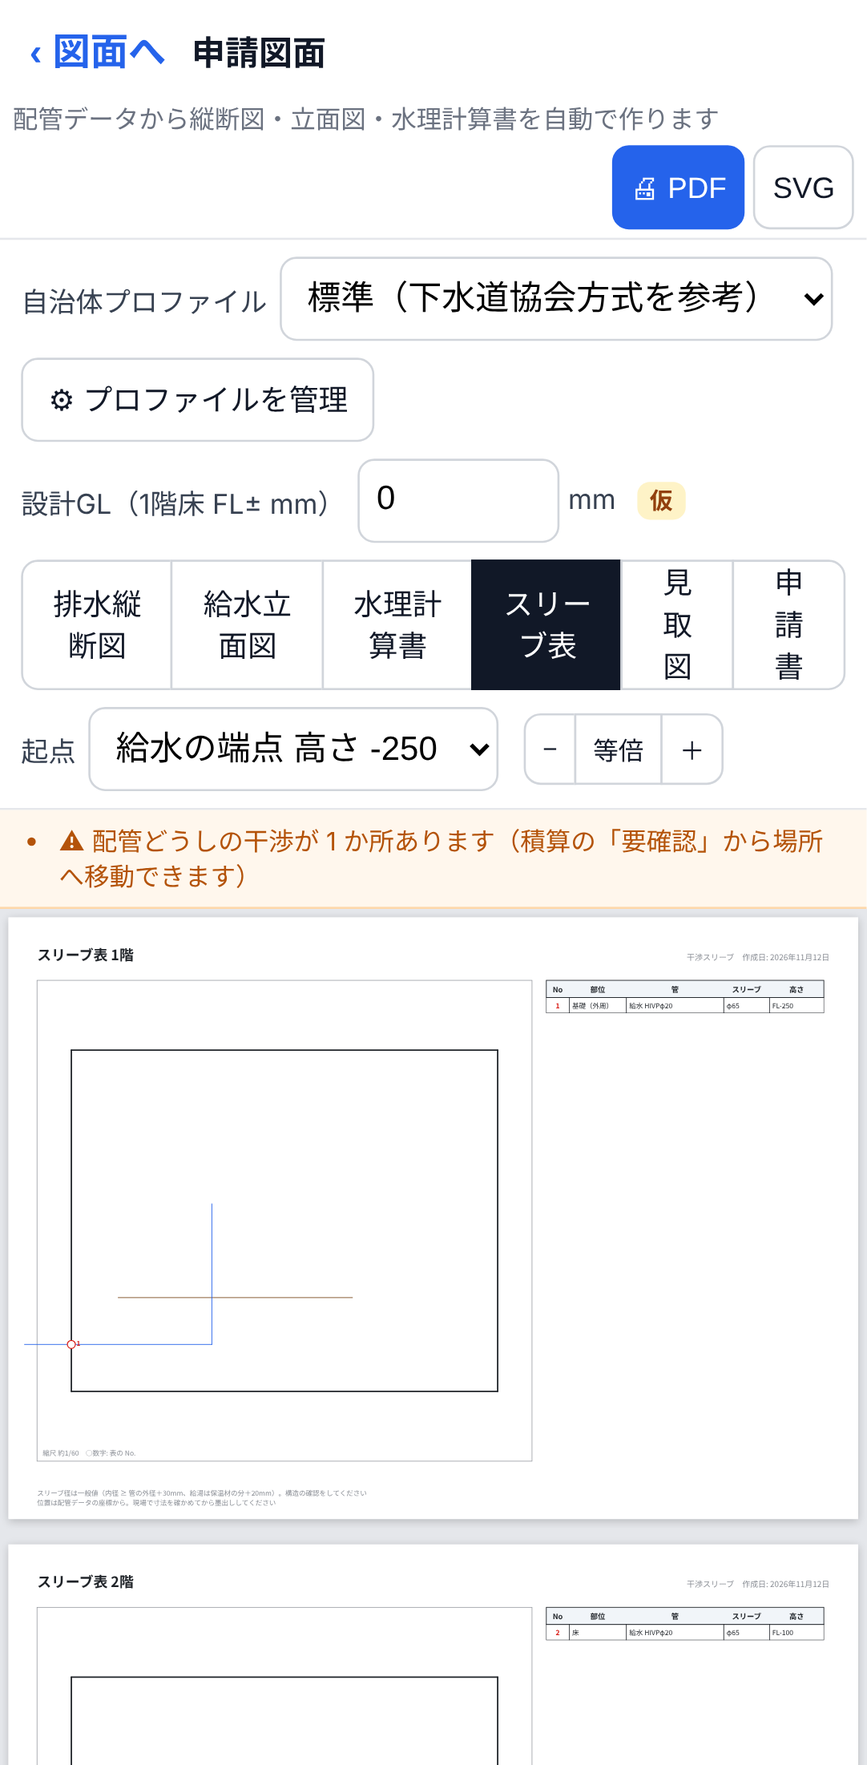
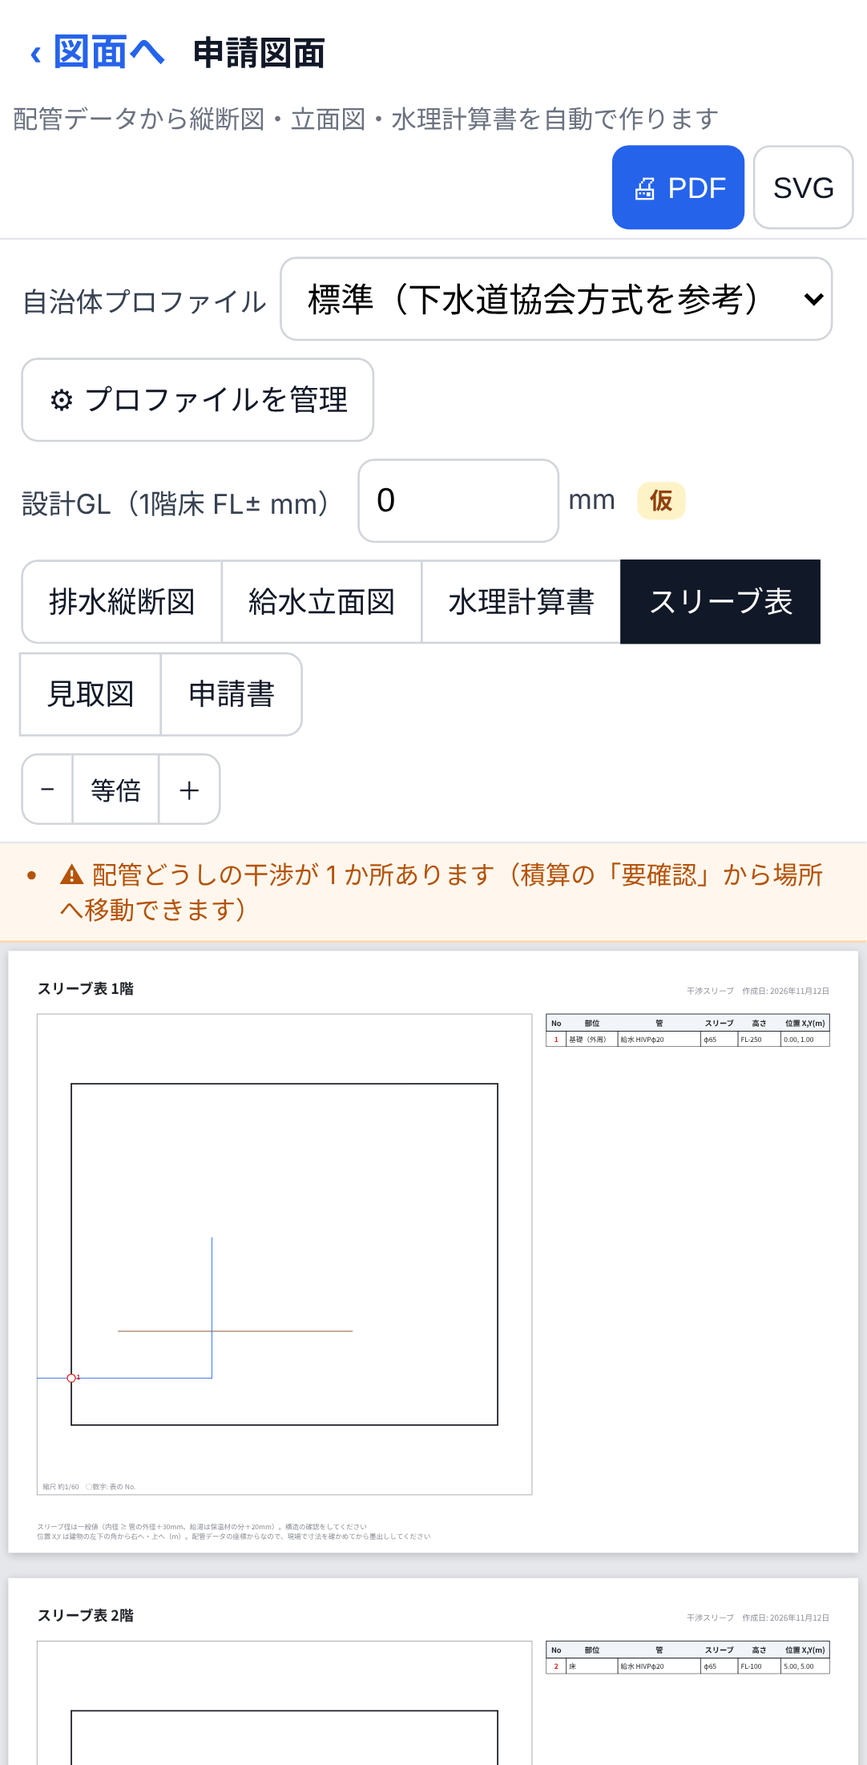
fix(干渉・スリーブ表): レビュー指摘の修正（同じ干渉を区間ごとに出さない・立て管の貫通は干渉・継ぎ目や角や部材の中の区切りで二重に数えない・壁の線で終わる配管は貫通ではない・縮尺の下限と建物の範囲・枠の外へ描かない・位置 X,Y の列・スリーブ径の決め方を設計書と一致）
Claude-Session: https://claude.ai/code/session_0147UKVvh1jvwGpYxGadQEHZ

diff --git a/src/export/sleeveSheet.ts b/src/export/sleeveSheet.ts
@@ -14,7 +14,7 @@ import { fitText, GRAY, INK, RED, type Sheet } from './sheet';
 export const SLEEVE_ROWS_PER_PAGE = 30;
 const W = 297, H = 210, M = 10;
 const PLAN = { x: M, y: 22, w: 173, h: 168 };
-const COLS = [{ k: 'No', w: 8 }, { k: '部位', w: 20 }, { k: '管', w: 34 }, { k: 'スリーブ', w: 16 }, { k: '高さ', w: 19 }];
+const COLS = [{ k: 'No', w: 7 }, { k: '部位', w: 18 }, { k: '管', w: 29 }, { k: 'スリーブ', w: 13 }, { k: '高さ', w: 15 }, { k: '位置 X,Y(m)', w: 17 }];
 const TX = 188, TY = 22, HEAD_H = 6, ROW_H = 5.4;
 const SYS_COLOR: Partial<Record<SystemType, string>> = { water: '#2563eb', hotWater: '#dc2626', drain: '#7c4a1e', sewage: '#7c4a1e', vent: '#16a34a' };
 
@@ -23,6 +23,10 @@ const flText = (z: number) => (z >= 0 ? `FL+${z}` : `FL${z}`);
 export function renderSleeveSheets(doc: Doc, rows: SleeveRow[], meta: { siteName: string; date: Date }): { sheets: Sheet[]; collisions: number } {
   const b = doc.building, net = doc.network;
   const floors = [...b.floors].sort((x, y) => x.elevation - y.elevation);
+  const allWallPts = Object.values(b.walls).flatMap((w) => [b.corners[w.a], b.corners[w.b]]).filter(Boolean);
+  // 位置の原点: 建物の左下の角（無ければスリーブの点の左下）
+  const ref = allWallPts.length ? allWallPts : rows.map((r) => r.point);
+  const X0 = Math.min(...ref.map((p) => p.x)), Y0 = Math.min(...ref.map((p) => p.y));
   const sheets: Sheet[] = [];
   let collisions = 0;
   floors.forEach((f, fi) => {
@@ -35,12 +39,15 @@ export function renderSleeveSheets(doc: Doc, rows: SleeveRow[], meta: { siteName
       const p = net.nodes[s.a]?.pos, q = net.nodes[s.b]?.pos;
       return p && q && Math.max(p.z, q.z) >= zLo && Math.min(p.z, q.z) < zHi;
     });
-    // 位置図の縮尺: 壁とスリーブの点が枠に収まるように（北が上、図面の y は上向き）
-    const pts = [...walls.flatMap((w) => [b.corners[w.a], b.corners[w.b]]), ...fr.map((r) => r.point)];
-    const minX = Math.min(...pts.map((p) => p.x)), maxX = Math.max(...pts.map((p) => p.x));
-    const minY = Math.min(...pts.map((p) => p.y)), maxY = Math.max(...pts.map((p) => p.y));
+    // 位置図の縮尺: 建物（全部の階の壁）とスリーブの点が枠に収まるように（北が上、図面の y は上向き）。
+    // 小さすぎる範囲は 3m 四方に広げ、縮尺は 1/10 より大きくしない
+    const pts = [...allWallPts, ...fr.map((r) => r.point)];
+    let minX = Math.min(...pts.map((p) => p.x)), maxX = Math.max(...pts.map((p) => p.x));
+    let minY = Math.min(...pts.map((p) => p.y)), maxY = Math.max(...pts.map((p) => p.y));
+    const grow = (lo: number, hi: number): [number, number] => { const e = Math.max(0, 3000 - (hi - lo)) / 2; return [lo - e, hi + e]; };
+    [minX, maxX] = grow(minX, maxX); [minY, maxY] = grow(minY, maxY);
     const pad = 12;
-    const k = Math.min((PLAN.w - pad * 2) / Math.max(1, maxX - minX), (PLAN.h - pad * 2) / Math.max(1, maxY - minY));
+    const k = Math.min(0.1, (PLAN.w - pad * 2) / (maxX - minX), (PLAN.h - pad * 2) / (maxY - minY));
     const ox = PLAN.x + (PLAN.w - (maxX - minX) * k) / 2, oy = PLAN.y + (PLAN.h - (maxY - minY) * k) / 2;
     const X = (x: number) => ox + (x - minX) * k, Y = (y: number) => oy + (maxY - y) * k;
     const scale = Math.round(1 / k / 10) * 10;
@@ -66,8 +73,11 @@ export function renderSleeveSheets(doc: Doc, rows: SleeveRow[], meta: { siteName
       for (const s of segs) {
         const p = net.nodes[s.a].pos, q = net.nodes[s.b].pos;
         if (Math.hypot(q.x - p.x, q.y - p.y) * k < 0.05) continue; // 立て管は点
-        sheet.ops.push({ t: 'line', x1: X(p.x), y1: Y(p.y), x2: X(q.x), y2: Y(q.y), w: 0.25, color: SYS_COLOR[s.system] ?? GRAY });
-        PP.blockSeg(X(p.x), Y(p.y), X(q.x), Y(q.y));
+        // 建物から遠くへ延びる管は位置図の枠で切る（用紙の外・注記へはみ出さない）
+        const c = clipToRect(X(p.x), Y(p.y), X(q.x), Y(q.y), PLAN);
+        if (!c) continue;
+        sheet.ops.push({ t: 'line', x1: c[0], y1: c[1], x2: c[2], y2: c[3], w: 0.25, color: SYS_COLOR[s.system] ?? GRAY });
+        PP.blockSeg(c[0], c[1], c[2], c[3]);
       }
       // 番号の丸（全部の行。どのページでも位置図は同じ）
       const R = 1.4;
@@ -88,7 +98,7 @@ export function renderSleeveSheets(doc: Doc, rows: SleeveRow[], meta: { siteName
       const part = fr.slice(pg * SLEEVE_ROWS_PER_PAGE, (pg + 1) * SLEEVE_ROWS_PER_PAGE);
       part.forEach((r, i) => {
         const y = TY + HEAD_H + i * ROW_H;
-        const cells = [String(r.no), r.partLabel, `${SYSTEM_LABEL[r.system]} ${r.material}φ${r.diameter}`, `φ${r.sleeve}`, flText(r.flz)];
+        const cells = [String(r.no), r.partLabel, `${SYSTEM_LABEL[r.system]} ${r.material}φ${r.diameter}`, `φ${r.sleeve}`, flText(r.flz), `${((r.point.x - X0) / 1000).toFixed(2)}, ${((r.point.y - Y0) / 1000).toFixed(2)}`];
         let cx = TX;
         COLS.forEach((c, ci) => {
           sheet.ops.push({ t: 'rect', x: cx, y, w: c.w, h: ROW_H, stroke: INK, lw: 0.15 });
@@ -97,10 +107,22 @@ export function renderSleeveSheets(doc: Doc, rows: SleeveRow[], meta: { siteName
         });
       });
       T.place([at(M, H - 8, { s: SLEEVE_RULE, size: 2.4, color: GRAY })]);
-      T.place([at(M, H - 4.5, { s: '位置は配管データの座標から。現場で寸法を確かめてから墨出ししてください', size: 2.4, color: GRAY })]);
+      T.place([at(M, H - 4.5, { s: '位置 X,Y は建物の左下の角から右へ・上へ（m）。配管データの座標からなので、現場で寸法を確かめてから墨出ししてください', size: 2.4, color: GRAY })]);
       collisions += P.collisions + PP.collisions + T.collisions;
       sheets.push(sheet);
     }
   });
   return { sheets, collisions };
+}
+
+/** 線分を四角で切る（Liang-Barsky）。外なら null */
+function clipToRect(x1: number, y1: number, x2: number, y2: number, r: { x: number; y: number; w: number; h: number }): [number, number, number, number] | null {
+  let t0 = 0, t1 = 1;
+  const dx = x2 - x1, dy = y2 - y1;
+  for (const [p, q] of [[-dx, x1 - r.x], [dx, r.x + r.w - x1], [-dy, y1 - r.y], [dy, r.y + r.h - y1]]) {
+    if (Math.abs(p) < 1e-12) { if (q < 0) return null; continue; }
+    const t = q / p;
+    if (p < 0) { if (t > t1) return null; if (t > t0) t0 = t; } else { if (t < t0) return null; if (t < t1) t1 = t; }
+  }
+  return [x1 + dx * t0, y1 + dy * t0, x1 + dx * t1, y1 + dy * t1];
 }

diff --git a/src/model/sleeves.ts b/src/model/sleeves.ts
@@ -39,9 +39,12 @@ export function sleeveSize(od: number, system: SystemType): number {
   return SLEEVE_SIZES.find((s) => s >= need) ?? Math.ceil(need / 50) * 50;
 }
 
-type Hit = { part: SleevePart; partLabel?: string; floor: Floor; point: Vec3; key: string };
+type Hit = { part: SleevePart; partLabel?: string; floor: Floor; point: Vec3 };
 
 const lerp = (p: Vec3, q: Vec3, t: number): Vec3 => ({ x: p.x + (q.x - p.x) * t, y: p.y + (q.y - p.y) * t, z: p.z + (q.z - p.z) * t });
+
+/** 線 c-d に対して点がどちら側か（-1・0・1。0 は線の上） */
+const side = (c: Vec2, d: Vec2, r: Vec2) => { const v = (d.x - c.x) * (r.y - c.y) - (d.y - c.y) * (r.x - c.x); return Math.abs(v) < 1e-6 * Math.hypot(d.x - c.x, d.y - c.y) ? 0 : Math.sign(v); };
 
 /** 平面で配管 p-q が線 c-d を横切る（端で触れるのを含む）ときの配管上の t */
 function crossPlan(p: Vec3, q: Vec3, c: Vec2, d: Vec2): number | null {
@@ -84,11 +87,24 @@ export function sleeveSchedule(doc: Doc): SleeveRow[] {
   if (!floors.length) return [];
   const f0 = floors[0];
   const rows: (Omit<SleeveRow, 'no'> & { order: number })[] = [];
-  const seen = new Set<string>();
   const members = membersOf(b);
   const outlines = new Map(floors.map((f) => [f.id, outline(b, f.id)]));
   const insideOf = (f: Floor, pt: Vec3) => { const o = outlines.get(f.id) ?? outlines.get(f0.id); return !!o && pointInPolygon(pt, o); };
 
+  const byNode = new Map<string, Segment[]>();
+  for (const s of Object.values(net.segments)) for (const n of [s.a, s.b]) byNode.set(n, [...(byNode.get(n) ?? []), s]);
+  /** 区間の端 nodeId が線 c-d の上にあるとき、その先の区間が反対側へ抜けるか（抜けなければ壁の中で終わる・下りるだけ） */
+  const passesThrough = (s: Segment, nodeId: string, c: Vec2, d: Vec2) => {
+    const far = net.nodes[nodeId === s.a ? s.b : s.a]?.pos;
+    const mine = far ? side(c, d, far) : 0;
+    if (!mine) return false;
+    return (byNode.get(nodeId) ?? []).some((o) => {
+      if (o.id === s.id) return false;
+      const f = net.nodes[o.a === nodeId ? o.b : o.a]?.pos;
+      return !!f && side(c, d, f) === -mine;
+    });
+  };
+  const all: (Hit & { s: Segment })[] = [];
   for (const s of Object.values(net.segments)) {
     const A = net.nodes[s.a], B = net.nodes[s.b];
     if (!A || !B) continue;
@@ -100,9 +116,12 @@ export function sleeveSchedule(doc: Doc): SleeveRow[] {
       if (!f || !c || !d) continue;
       const t = crossPlan(p, q, c, d);
       if (t === null) continue;
+      // 端が壁の線の上: 次の区間が反対側へ抜けるときだけ（壁の中で終わる・下りるだけなら貫通ではない）
+      if (t < 1e-6 && !passesThrough(s, s.a, c, d)) continue;
+      if (t > 1 - 1e-6 && !passesThrough(s, s.b, c, d)) continue;
       const pt = lerp(p, q, t);
-      if (w.kind === 'exterior' && f.id === f0.id && pt.z < f0.elevation) hits.push({ part: 'footingOuter', floor: f0, point: pt, key: `w${w.id}` });
-      else if (pt.z >= f.elevation && pt.z < f.elevation + f.height) hits.push({ part: w.kind === 'exterior' ? 'exteriorWall' : 'interiorWall', floor: f, point: pt, key: `w${w.id}` });
+      if (w.kind === 'exterior' && f.id === f0.id && pt.z < f0.elevation) hits.push({ part: 'footingOuter', floor: f0, point: pt });
+      else if (pt.z >= f.elevation && pt.z < f.elevation + f.height) hits.push({ part: w.kind === 'exterior' ? 'exteriorWall' : 'interiorWall', floor: f, point: pt });
     }
     // 基礎の立上り（部材）・貫通の印のある部材
     for (const m of members) {
@@ -112,7 +131,7 @@ export function sleeveSchedule(doc: Doc): SleeveRow[] {
       if (!f) continue;
       const t = clipMember(m, f.elevation, p, q);
       if (t === null) continue;
-      hits.push({ part: isFoot ? 'footing' : m.kind === 'beam' ? 'beam' : 'member', partLabel: isFoot || m.kind === 'beam' ? undefined : MEMBER_LABEL[m.kind], floor: f, point: lerp(p, q, t), key: `m${m.id}` });
+      hits.push({ part: isFoot ? 'footing' : m.kind === 'beam' ? 'beam' : 'member', partLabel: isFoot || m.kind === 'beam' ? undefined : MEMBER_LABEL[m.kind], floor: f, point: lerp(p, q, t) });
     }
     // 2 階以上の床（スラブの真ん中の高さ）・基礎スラブ
     const planes: { z: number; part: SleevePart; floor: Floor }[] = floors.slice(1).map((f) => ({ z: f.elevation - f.slabThickness / 2, part: 'floor' as const, floor: f }));
@@ -120,15 +139,15 @@ export function sleeveSchedule(doc: Doc): SleeveRow[] {
     for (const pl of planes) {
       if ((p.z - pl.z) * (q.z - pl.z) > 0 || Math.abs(q.z - p.z) < 1e-9) continue;
       const pt = lerp(p, q, (pl.z - p.z) / (q.z - p.z));
-      if (insideOf(pl.floor, pt)) hits.push({ part: pl.part, floor: pl.floor, point: pt, key: `${pl.part}${pl.floor.id}` });
+      if (insideOf(pl.floor, pt)) hits.push({ part: pl.part, floor: pl.floor, point: pt });
     }
-    for (const h of hits) {
-      // 同じ所（壁の線の上で折れる配管の前後の区間など）は 1 つ
-      const k = `${h.key}|${Math.round(h.point.x / 20)}|${Math.round(h.point.y / 20)}|${Math.round(h.point.z / 20)}`;
-      if (seen.has(k)) continue;
-      seen.add(k);
-      rows.push(rowOf(s, h, floors.indexOf(h.floor)));
-    }
+    for (const h of hits) all.push({ ...h, s });
+  }
+  // 同じ所は 1 つ: 同じ部位・同じ管（系統と口径）で 80mm 以内（壁の継ぎ目・角、部材の中で区切られた配管の前後など）
+  for (const h of all) {
+    const dup = rows.some((r) => r.part === h.part && r.system === h.s.system && r.diameter === h.s.diameter
+      && Math.hypot(r.point.x - h.point.x, r.point.y - h.point.y) < 80 && Math.abs(r.point.z - h.point.z) < 80);
+    if (!dup) rows.push(rowOf(h.s, h, floors.indexOf(h.floor)));
   }
   // 外周の基礎に重ねて置いた立上りの部材は、外周と同じ所（250mm 以内）なら外周の 1 か所にまとめる
   const outer = rows.filter((r) => r.part === 'footingOuter');

diff --git a/src/model/clash.ts b/src/model/clash.ts
@@ -1,7 +1,8 @@
 /**
  * 配管どうしの干渉（3D で管が重なっている所）。管は外径の円柱として、中心線どうしの最短距離 < 半径の和 で判定する。
  * つながっている区間（同じ点を持つ・ごく短い継手をはさんで続く）は除く。
- * 柔らかい管（PB・架橋ポリ）どうしが角度をもって交わる所は、上下にずらして通すので除く（平行に重なるのは干渉）。
+ * 柔らかい管（PB・架橋ポリ）どうしが角度をもって交わる所は、上下にずらして通すので除く（平行に重なる・立て管が貫くのは干渉）。
+ * 同じ重なりが分割された区間ごとに出ないよう、隣り合う区間どうしの干渉は 1 つにまとめる（重なりのいちばん大きいもの）。
  */
 import type { Doc } from './doc';
 import type { Segment, Vec3 } from './network';
@@ -60,6 +61,8 @@ export function findPipeClashes(doc: Doc): PipeClash[] {
     const a = d(A), b = d(B), la = Math.hypot(a.x, a.y, a.z), lb = Math.hypot(b.x, b.y, b.z);
     return la > 1e-6 && lb > 1e-6 && Math.abs(dot(a, b)) / (la * lb) < Math.cos((20 * Math.PI) / 180);
   };
+  /** ほぼ水平（勾配 1/5 より緩い） */
+  const horizontal = (s: Segment) => { const d = sub(net.nodes[s.b].pos, net.nodes[s.a].pos); return Math.abs(d.z) <= Math.hypot(d.x, d.y) * 0.2; };
   const box = segs.map((s) => {
     const p = net.nodes[s.a].pos, q = net.nodes[s.b].pos, rr = r(s);
     return { s, x0: Math.min(p.x, q.x) - rr, x1: Math.max(p.x, q.x) + rr, y0: Math.min(p.y, q.y) - rr, y1: Math.max(p.y, q.y) + rr, z0: Math.min(p.z, q.z) - rr, z1: Math.max(p.z, q.z) + rr };
@@ -72,12 +75,29 @@ export function findPipeClashes(doc: Doc): PipeClash[] {
       if (B.y0 > A.y1 || B.y1 < A.y0 || B.z0 > A.z1 || B.z1 < A.z0) continue;
       const sum = r(A.s) + r(B.s);
       if (connected(A.s, B.s, sum * 2)) continue;
-      if (flexible(A.s) && flexible(B.s) && crossing(A.s, B.s)) continue;
+      if (flexible(A.s) && flexible(B.s) && horizontal(A.s) && horizontal(B.s) && crossing(A.s, B.s)) continue;
       const c = closestPoints(net.nodes[A.s.a].pos, net.nodes[A.s.b].pos, net.nodes[B.s.a].pos, net.nodes[B.s.b].pos);
       const overlap = sum - c.dist;
       if (overlap <= 1) continue;
       out.push({ segA: A.s.id, segB: B.s.id, point: { x: (c.c1.x + c.c2.x) / 2, y: (c.c1.y + c.c2.y) / 2, z: (c.c1.z + c.c2.z) / 2 }, overlap });
     }
   }
-  return out;
+  return mergeAdjacent(out, (a, b) => {
+    const x = net.segments[a], y = net.segments[b];
+    return a === b || (!!x && !!y && (x.a === y.a || x.a === y.b || x.b === y.a || x.b === y.b));
+  });
+}
+
+/** 隣り合う区間（同じ点を持つ）どうしの干渉を 1 つにまとめる。代表は重なりのいちばん大きいもの */
+function mergeAdjacent(list: PipeClash[], adj: (a: string, b: string) => boolean): PipeClash[] {
+  const parent = list.map((_, i) => i);
+  const find = (i: number): number => (parent[i] === i ? i : (parent[i] = find(parent[i])));
+  for (let i = 0; i < list.length; i++) for (let j = i + 1; j < list.length; j++) {
+    const p = list[i], q = list[j];
+    const same = (adj(p.segA, q.segA) && adj(p.segB, q.segB)) || (adj(p.segA, q.segB) && adj(p.segB, q.segA));
+    if (same) parent[find(i)] = find(j);
+  }
+  const best = new Map<number, PipeClash>();
+  list.forEach((c, i) => { const r = find(i), cur = best.get(r); if (!cur || c.overlap > cur.overlap) best.set(r, c); });
+  return [...best.values()];
 }

diff --git a/src/model/sleeves.test.ts b/src/model/sleeves.test.ts
@@ -71,6 +71,26 @@ describe('スリーブ表の拾い出し', () => {
     const net = addPolyline(emptyNetwork(), [v(-1000, 1000, -300), v(0, 1000, -300), v(1000, 2000, -300)], W).net;
     expect(sleeveSchedule(docOf(b, net))).toHaveLength(1);
   });
+  test('基礎の立上りの中で区切られた配管も 1 か所', () => {
+    let b = house();
+    b = withMember(b, { kind: 'footing', floorId: b.floors[0].id, a: { x: 2000, y: 0 }, b: { x: 2000, y: 7280 }, width: 150, z0: -600, z1: -50 }).b;
+    const net = addPolyline(emptyNetwork(), [v(1500, 4000, -300), v(2000, 4000, -300), v(2500, 4000, -300)], D).net;
+    expect(sleeveSchedule(docOf(b, net)).map((r) => r.part)).toEqual(['footing']);
+  });
+  test('壁の継ぎ目（間仕切壁が当たる所）・外周の角を斜めに通る配管も 1 か所', () => {
+    let b = house();
+    b = addWall(b, b.floors[0].id, { x: 4000, y: 0 }, { x: 4000, y: 7280 }, { kind: 'interior', thickness: 120 }).b;
+    let net = addPolyline(emptyNetwork(), [v(3000, -1000, -300), v(5000, 1000, -300)], W).net; // 外壁の継ぎ目 (4000,0)
+    expect(sleeveSchedule(docOf(b, net)).map((r) => r.part)).toEqual(['footingOuter']);
+    net = addPolyline(emptyNetwork(), [v(-1000, -1000, -300), v(1000, 1000, -300)], W).net; // 角 (0,0)
+    expect(sleeveSchedule(docOf(b, net)).map((r) => r.part)).toEqual(['footingOuter']);
+  });
+  test('壁の線で終わって壁の中を下りる配管は貫通ではない', () => {
+    let b = house();
+    b = addWall(b, b.floors[0].id, { x: 4000, y: 0 }, { x: 4000, y: 7280 }, { kind: 'interior', thickness: 120 }).b;
+    const net = addPolyline(emptyNetwork(), [v(3000, 3000, 2600), v(4000, 3000, 2600), v(4000, 3000, 500)], W).net;
+    expect(sleeveSchedule(docOf(b, net))).toEqual([]);
+  });
   test('貫通の印が無い梁にぶつかる配管は拾わない（干渉として要確認に出る）', () => {
     let b = house();
     b = withMember(b, { kind: 'beam', floorId: b.floors[0].id, a: { x: 6000, y: 0 }, b: { x: 6000, y: 7280 }, width: 120, z0: 2500, z1: 2800 }).b;

diff --git a/src/model/clash.test.ts b/src/model/clash.test.ts
@@ -44,6 +44,20 @@ describe('配管どうしの干渉', () => {
     const n2 = addPolyline(addPolyline(emptyNetwork(), [v(0, 0, -300), v(2000, 0, -300)], P).net, [v(1000, -1000, -300), v(1000, 1000, -300)], W).net;
     expect(findPipeClashes(docOf(n2))).toHaveLength(1);
   });
+  test('同じ干渉を区間ごとに何度も出さない（分割された管に沿う管・継ぎ目での交差）', () => {
+    let net = addPolyline(emptyNetwork(), [v(0, 0, -300), v(1000, 0, -300), v(2000, 0, -300), v(3000, 0, -300), v(4000, 0, -300)], D).net;
+    net = addPolyline(net, [v(500, 30, -300), v(3500, 30, -300)], W).net; // 30mm 横を沿う
+    expect(findPipeClashes(docOf(net))).toHaveLength(1);
+    let n2 = addPolyline(emptyNetwork(), [v(0, 0, -300), v(1000, 0, -300), v(2000, 0, -300)], D).net;
+    n2 = addPolyline(n2, [v(1000, -1000, -300), v(1000, 1000, -300)], W).net; // 継ぎ目で交差
+    expect(findPipeClashes(docOf(n2))).toHaveLength(1);
+  });
+  test('柔らかい管でも、立て管が横の管を貫くのは干渉', () => {
+    const P = { system: 'water' as const, diameter: 20, material: 'PB' };
+    let net = addPolyline(emptyNetwork(), [v(0, 0, -300), v(2000, 0, -300)], P).net;
+    net = addPolyline(net, [v(1000, 0, -800), v(1000, 0, 500)], { ...P, system: 'hotWater' as const }).net;
+    expect(findPipeClashes(docOf(net))).toHaveLength(1);
+  });
   test('積算の要確認に「干渉」として出る', () => {
     let net = addPolyline(emptyNetwork(), [v(0, 0, -300), v(2000, 0, -300)], D).net;
     net = addPolyline(net, [v(1000, -1000, -300), v(1000, 1000, -300)], W).net;

diff --git a/src/export/sleeveSheet.test.ts b/src/export/sleeveSheet.test.ts
@@ -46,6 +46,25 @@ describe('スリーブ表の用紙', () => {
     expect(texts(sheets[1].ops)).toContain('スリーブ');
     for (const sh of sheets) expect(findTextOverlaps(sh)).toEqual([]);
   });
+  test('壁の無い階の立て管だけでも位置図が建物の大きさで、縮尺がまともで、表に位置の列', () => {
+    const doc = site(0);
+    const f2 = doc.building.floors[1].id;
+    doc.building = { ...doc.building, walls: Object.fromEntries(Object.entries(doc.building.walls).filter(([, w]) => w.floorId !== f2)) };
+    const rows = sleeveSchedule(doc);
+    const { sheets } = renderSleeveSheets(doc, rows, meta);
+    const t = texts(sheets.at(-1)!.ops);
+    const sc = t.find((s) => s.startsWith('縮尺'))!;
+    expect(Number(/1\/(\d+)/.exec(sc)![1])).toBeGreaterThanOrEqual(10);
+    expect(t).toContain('位置 X,Y(m)');
+  });
+  test('建物から遠くへ延びる配管も位置図の枠の中だけに描く', () => {
+    const doc = site(2);
+    doc.network = addPolyline(doc.network, [v(4000, 3000, -300), v(4000, -20000, -300)], { system: 'sewage', diameter: 100, material: 'VU' }).net;
+    const { sheets } = renderSleeveSheets(doc, sleeveSchedule(doc), meta);
+    for (const o of sheets[0].ops) if (o.t === 'line' && o.color && o.color !== '#1f2328') {
+      for (const y of [o.y1, o.y2]) expect(y).toBeLessThanOrEqual(22 + 168 + 0.01);
+    }
+  });
   test('スリーブが無ければ用紙なし', () => {
     expect(renderSleeveSheets(site(0), [], meta).sheets).toEqual([]);
   });

diff --git a/docs/superpowers/specs/2026-11-12-clash-sleeve-design.md b/docs/superpowers/specs/2026-11-12-clash-sleeve-design.md
@@ -8,9 +8,9 @@
 
 ## 決定
 - 干渉: 区間どうしの 3D の最短距離 < 外径の半分の和（`outerDiameter`）。端点を共有する区間・同じ点でつながる区間は除く。重なり量（mm）と場所を出す。AABB で絞る
-- スリーブの径（一般値。表に注記）: 管の外径＋40mm 以上の内径を持つ、いちばん小さい呼び径（50・65・75・100・125・150・200・250・300）。給湯は保温材の分としてさらに＋20mm
+- スリーブの径（一般値。表に注記）: 管の外径＋30mm 以上の内径を持つ、いちばん小さい呼び径（50・65・75・100・125・150・200・250・300）。給湯は保温材の分としてさらに＋20mm（VU100 → φ150。レビューで食い違いを指摘され、一般的な組み合わせに合う＋30 に決めた）
 - 部位の拾い方: 基礎の立上り（部材 footing の箱を通る）／梁など（貫通の印のある部材）／壁（その階の高さで壁の中心線をまたぐ。外壁・間仕切壁）／床（2 階以上の床面の高さをまたぐ）／基礎スラブ（`foundation.slabTop` をまたぐ）。1 階の床板は拾わない
-- 位置: 階の平面の座標（mm）と、その階の床からの高さ（FL±）。位置図に番号の丸を LabelPlacer で置く
+- 位置: 建物の左下の角からの X・Y（m）と、その階の床からの高さ（FL±）。位置図に番号の丸を LabelPlacer で置く
 - 用紙: A4 横。左に階の平面（壁・部材・配管・番号）、右に表（No・部位・管・スリーブ・高さ）。行があふれたら同じ階の続きのページ
 - 保存形式は変えない。排水系のファイルとストアの commit に触れない（estimate.ts に要確認の種類を足すだけ）
 
